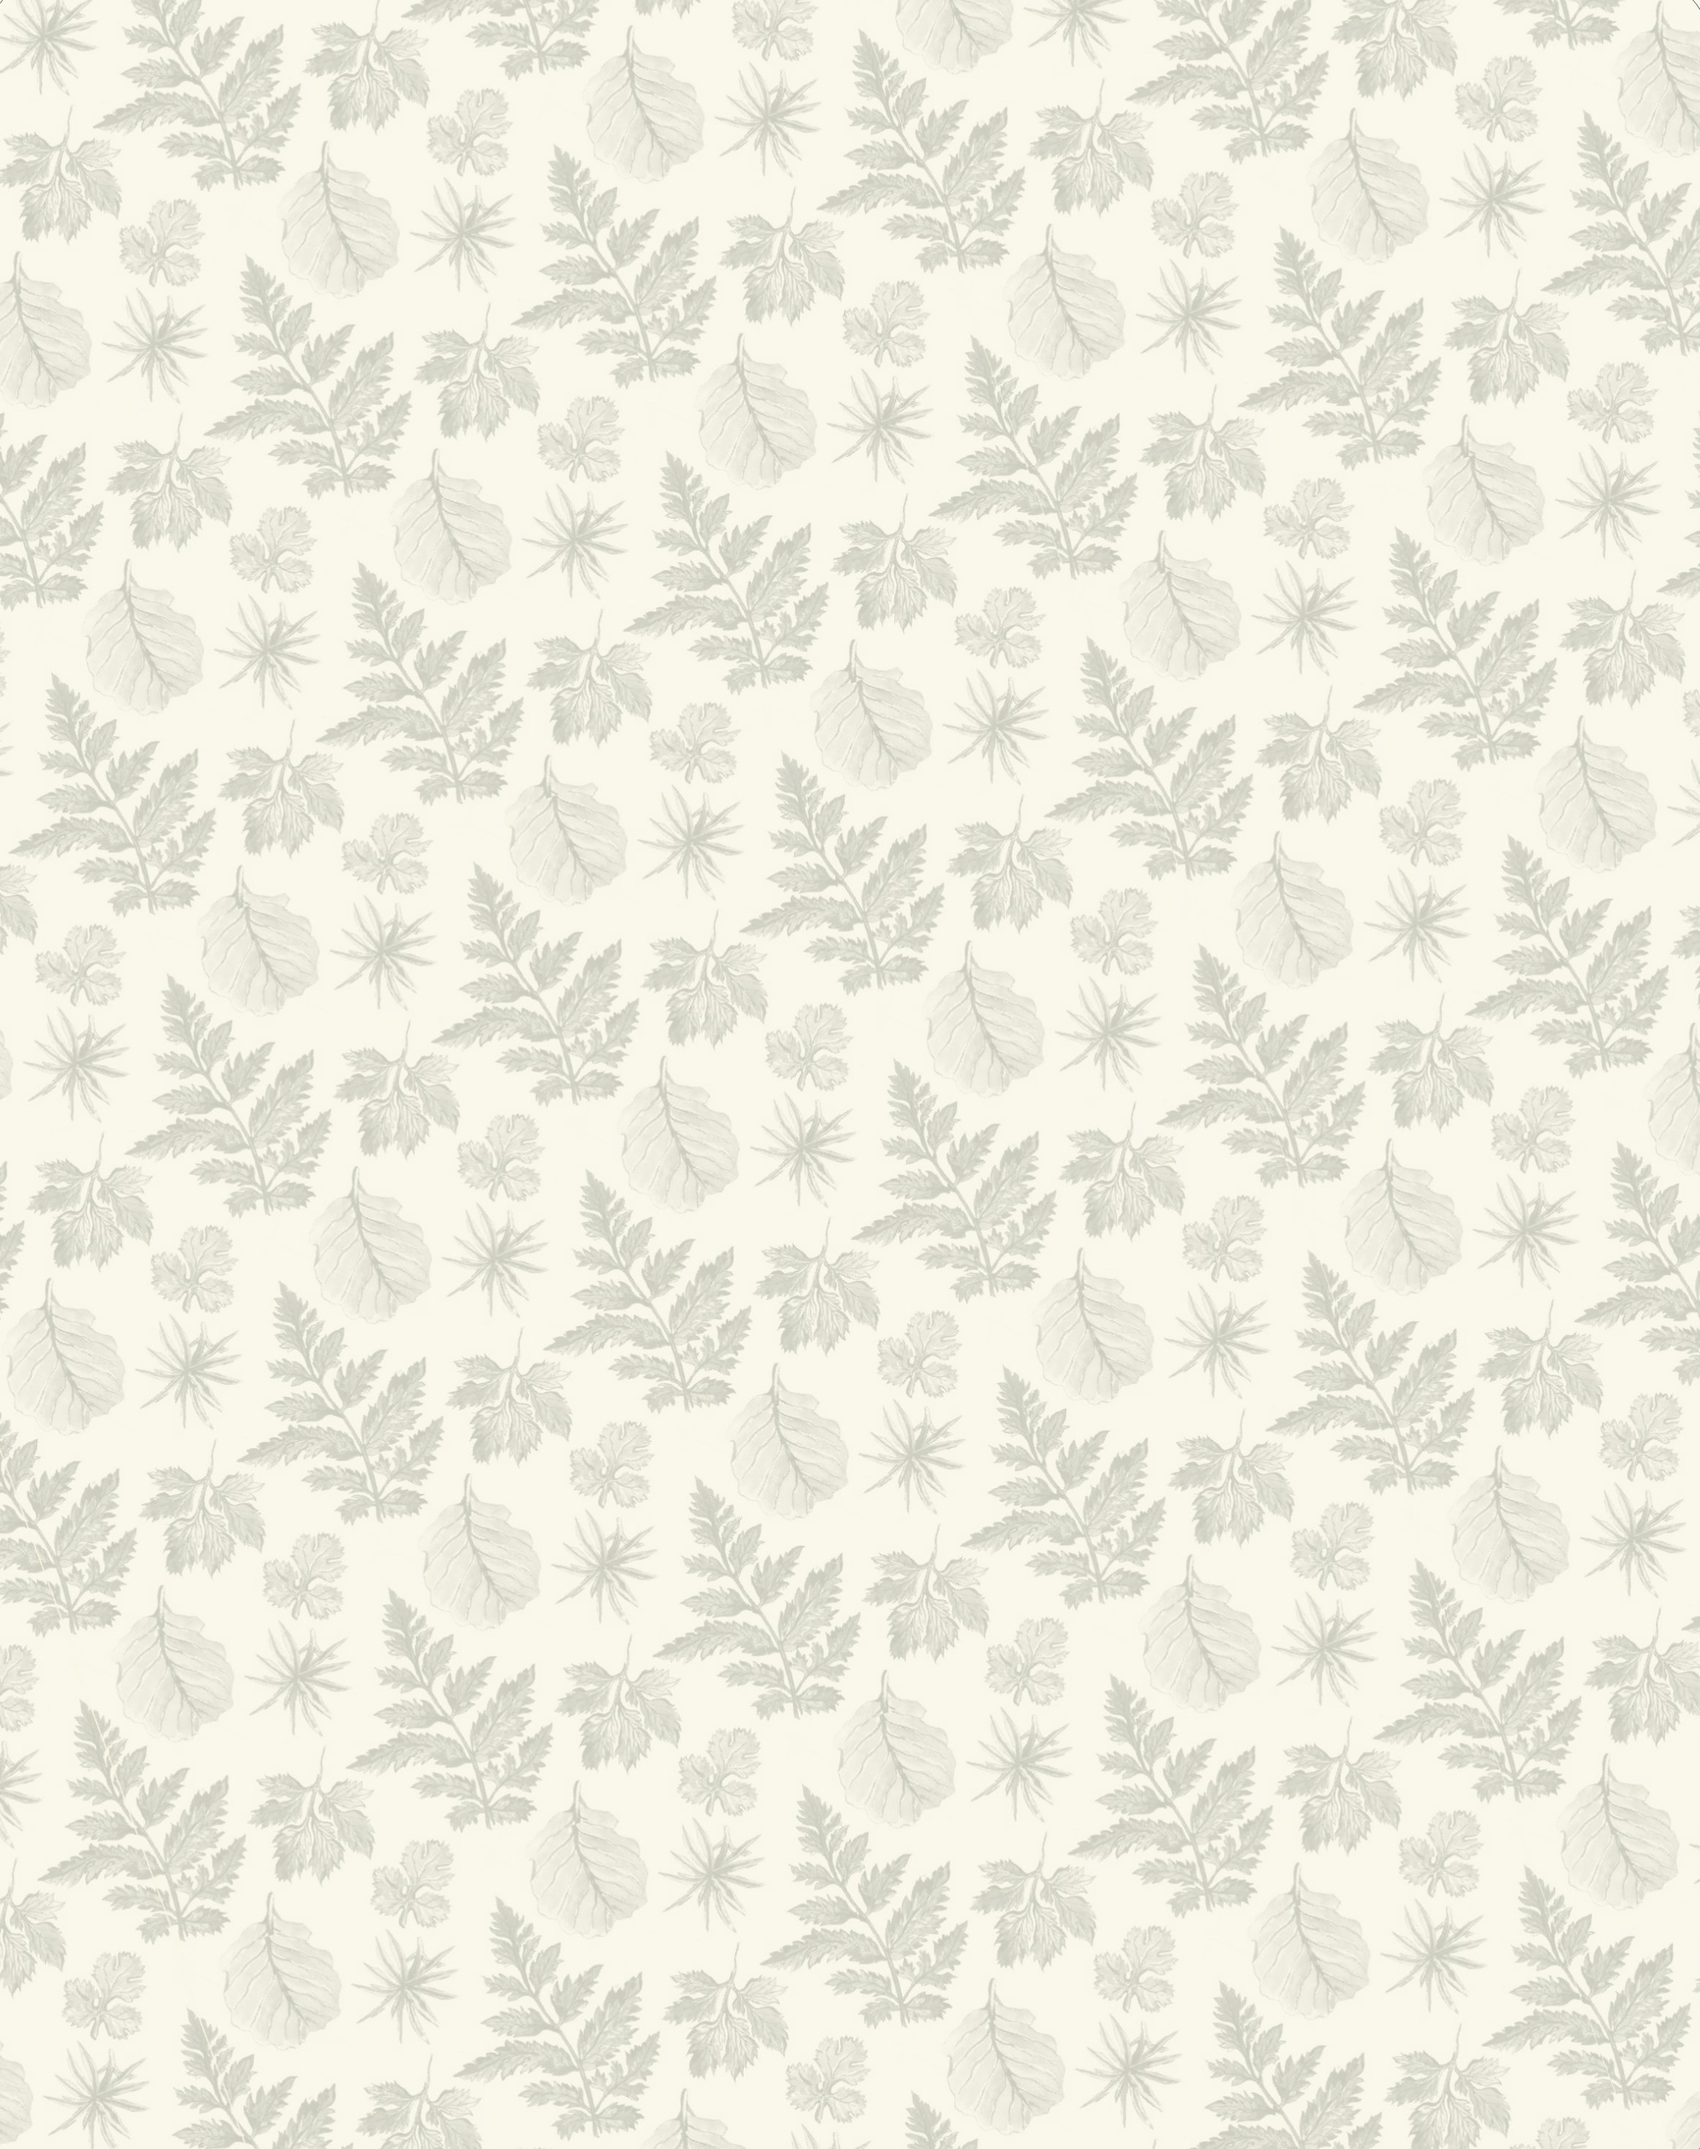
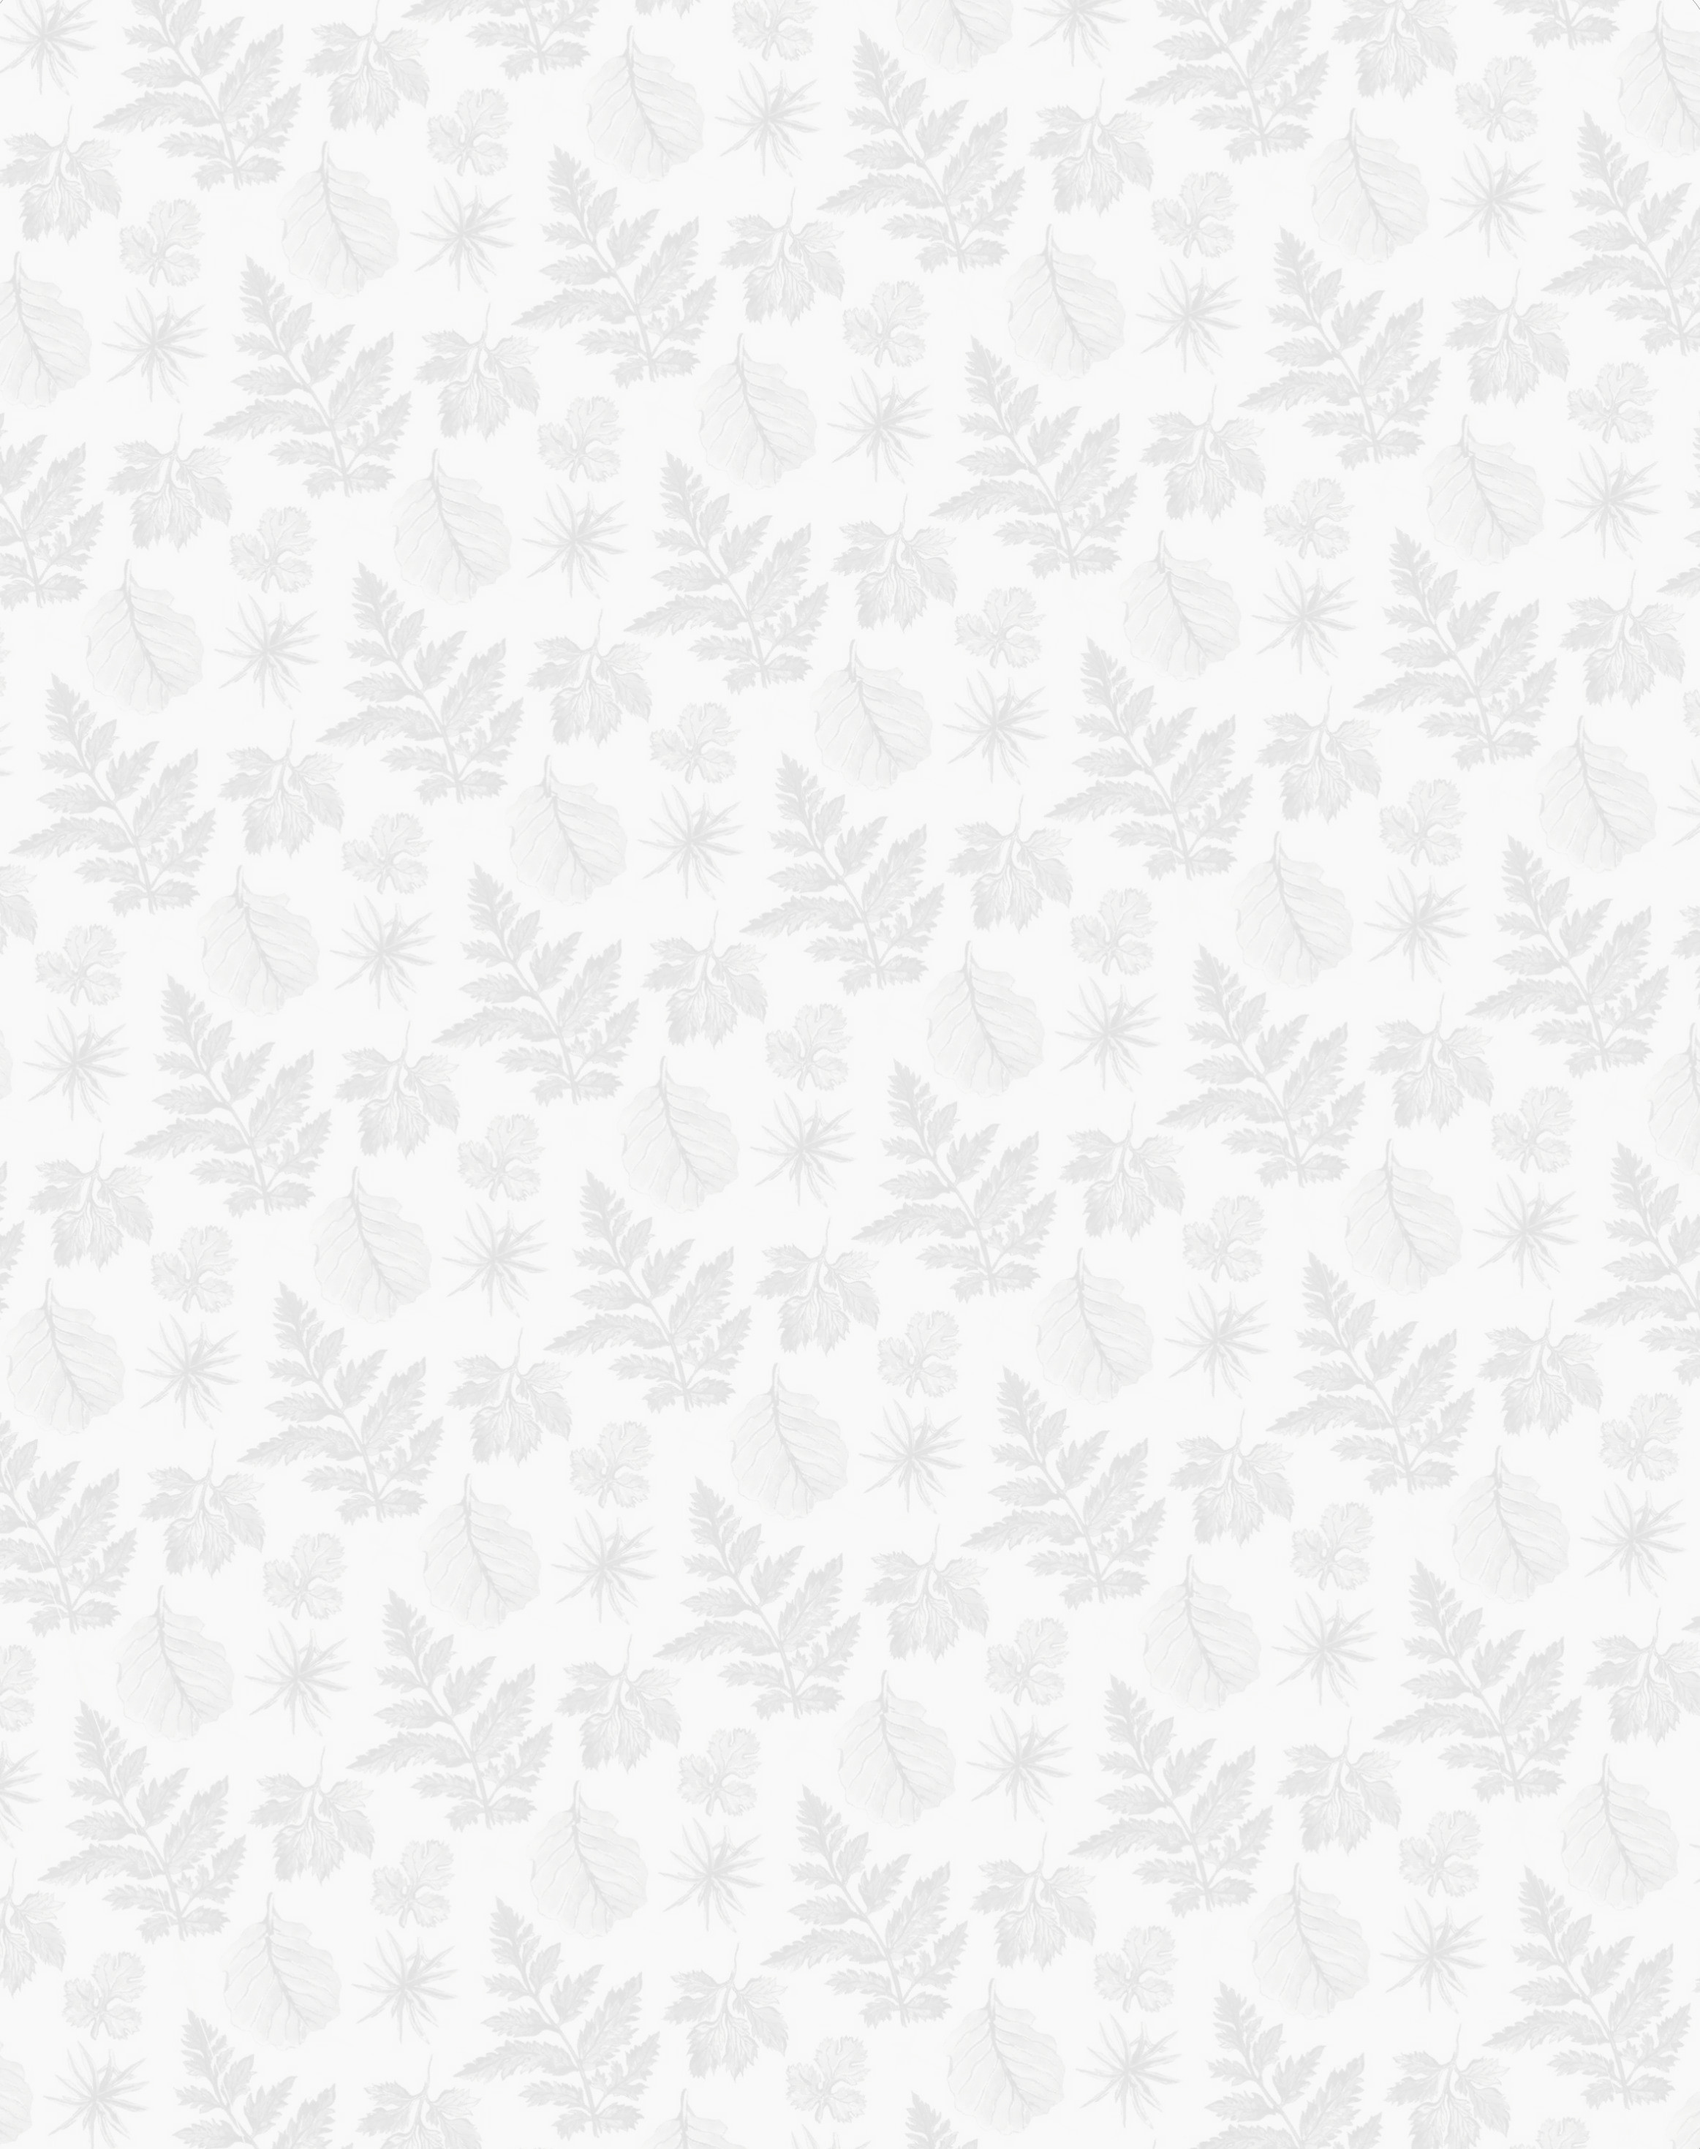
romaskova, dark, margin, button

diff --git a/css/style.css b/css/style.css
@@ -38,7 +38,7 @@ body {
 .odkaz {
   color: var(--odkaz);
   font-weight: 600;
-  font-size: 19px;
+  font-size: 18.5px;
 }
 
 @media screen and (min-width: 850px) {
@@ -55,7 +55,7 @@ body {
     font-size: 26px;
   }
   .card__odkaz {
-    font-size: 20px;
+    font-size: 18px;
   }
 }
 .header__logo {
@@ -143,13 +143,19 @@ body {
   .card__img {
     max-width: 40vw;
     float: right;
-    margin: 70px 20px 20px;
+    margin: 80px 20px 20px;
+  }
+  .card__title {
+    margin-bottom: 40px;
+  }
+  .card__medailonek {
+    margin-top: 60px;
   }
 }
 @media screen and (min-width: 850px) {
   .card__img {
     max-width: 30vw;
-    margin: 70px 40px 40px;
+    margin: 80px 40px 40px;
   }
 }
 .card__odkaz {
@@ -161,10 +167,21 @@ body {
 .card__zpet {
   background-color: var(--pozadi);
   margin-top: 20px;
-  border: 2px solid var(--ramecek);
+  border: 1px solid var(--ramecek);
   border-radius: 30px;
-  padding: 2px 10px;
-  box-shadow: 1px;
+  padding: 5px 10px;
+  box-shadow: 1px 1px 2px rgba(173, 173, 173, 0.5019607843);
+  transition: transform 0.08s;
+}
+
+.card__zpet:hover, .card__zpet:focus {
+  box-shadow: 1.5px 1.5px 3px rgba(173, 173, 173, 0.5019607843);
+  transform: translate(-1px, -1px);
+}
+
+.card__zpet:active {
+  box-shadow: 1px 1px 2px rgba(173, 173, 173, 0.5019607843);
+  transform: translate(0, 0);
 }
 
 .program__grid {
@@ -228,9 +245,16 @@ html {
 }
 
 body {
-  background-image: url(/images/background3.jpg);
+  background-image: url(/images/background.jpg);
   background-size: 100%;
   width: 80vw;
   margin: 0 auto;
   max-width: 1800px;
+}
+
+@media (prefers-color-scheme: dark) {
+  body {
+    background-image: url(/images/background-dark.jpg);
+    color: white;
+  }
 }/*# sourceMappingURL=style.css.map */

diff --git a/index.html b/index.html
@@ -52,7 +52,7 @@
                 <div class="program__grid"><p>9:00 - 10:15</p> <p class="program__radek"><a class="odkaz odkaz__clovek" href="katerina-cerna.html">Kateřina Černá</a>: Bylinky jako součást mého života na Žítkové</p></div>
                 <div class="program__grid"><p>10:45 -12:00</p> <p class="program__radek"><a class="odkaz odkaz__clovek" href="radka-svatosova.html">Radka Svatošová</a>: Znovuzrození ženy - bylinky a recepty pro ženské zdraví a energii</p></div>
                 <div class="program__grid"><p>12:00 - 13:00</p> <p class="program__radek">Obědová pauza</p></div>
-                <div class="program__grid"><p>13:00 - 14:00</p> <p class="program__radek"><a class="odkaz odkaz__clovek" href="bude-upresneno.html">Bude upřesněno</a>: bude upřesněno</p></div>
+                <div class="program__grid"><p>13:00 - 14:00</p> <p class="program__radek"><a class="odkaz odkaz__clovek" href="karolina-romaskova.html">Karolína Romášková</a>: Aby bylinky opravdu pomáhaly - faktory ovlivňující účinnost a bezpečnost léčivých rostlin</p></div>
                 <div class="program__grid"><p>14:30 - 16:00</p> <p class="program__radek"><a class="odkaz odkaz__clovek" href="petr-haba.html">Petr Hába</a> + <a class="odkaz" href="tereza-terra.html">Tereza Terra</a>: I západy slunce mohou být krásné - byliny v péči o bytosti na konci pozemské pouti - přednáška, meditační hudba, aromaterapie</p></div>
             </div>
         </div>

diff --git a/karolina-romaskova.html b/karolina-romaskova.html
@@ -1,0 +1,23 @@
+<!DOCTYPE html>
+<html lang="en">
+<head>
+    <meta charset="UTF-8">
+    <meta http-equiv="X-UA-Compatible" content="IE=edge">
+    <meta name="viewport" content="width=device-width, initial-scale=1.0">
+    <link rel="stylesheet" href="/css/style.css">
+    <link rel="preconnect" href="https://fonts.googleapis.com">
+    <link rel="preconnect" href="https://fonts.gstatic.com" crossorigin>
+    <link href="https://fonts.googleapis.com/css2?family=Anton&family=Cabin:ital,wght@0,400..700;1,400..700&family=Caudex:ital,wght@0,400;0,700;1,400;1,700&family=Corben:wght@400;700&family=Figtree:ital@0;1&family=Laila:wght@300;400;500;600;700&family=Suez+One&display=swap" rel="stylesheet">
+
+    <title>Karolína Romášková</title>
+</head>
+<body>
+    <button class="card__zpet"><a class="card__odkaz" href="index.html#program">← zpět</a></button>
+    <img class="card__img" src="/images/nahradnice.JPG" alt="Karolína Romášková">
+    <div class="card__medailonek">
+        <h1 class="card__title">Karolína Romášková</h1>
+        <p class="card__text">Máme rádi bylinky!</p>
+    </div>
+
+</body>
+</html>

diff --git a/SCSS/_button.scss b/SCSS/_button.scss
@@ -10,10 +10,22 @@
 .card__zpet {
     background-color: var(--pozadi);
     margin-top: 20px;
-    border: 2px solid var(--ramecek);
+    border: 1px solid var(--ramecek);
     border-radius: 30px;
-    padding: 2px 10px;
-    box-shadow: 1px;
+    padding: 5px 10px;
+    box-shadow: 1px 1px 2px #adadad80;
+    transition: transform 0.08s;
+}
+
+
+.card__zpet:hover, .card__zpet:focus  {
+    box-shadow: 1.5px 1.5px 3px #adadad80;
+    transform: translate(-1px, -1px);
+}
+
+.card__zpet:active {
+    box-shadow: 1px 1px 2px #adadad80;
+    transform: translate(0, 0);
 }
 
 

diff --git a/SCSS/style.scss b/SCSS/style.scss
@@ -9,6 +9,7 @@
 @use 'kontakt';
 @use 'margin';
 
+
 html {
     box-sizing: border-box;
 }
@@ -16,14 +17,21 @@ html {
 *, ::before, ::after {
     box-sizing: inherit;
 }
+    
 
 body {
-    background-image: url(/images/background3.jpg);
+    background-image: url(/images/background.jpg);
     
     background-size: 100%;
     width: 80vw;
     margin: 0 auto;
     max-width: 1800px;
-    
+
 }
 
+@media (prefers-color-scheme: dark) {
+    body {
+        background-image: url(/images/background-dark.jpg);
+        color: white;
+    }
+}

diff --git a/SCSS/_card.scss b/SCSS/_card.scss
@@ -13,7 +13,15 @@
     .card__img { 
         max-width: 40vw;
         float: right;
-        margin: 70px 20px 20px;
+        margin: 80px 20px 20px;
+    }
+
+    .card__title {
+        margin-bottom: 40px;
+    }
+
+    .card__medailonek {
+        margin-top: 60px;
     }
 
 }
@@ -21,7 +29,7 @@
 @media screen and (min-width: 850px) {
     .card__img { 
         max-width: 30vw;
-        margin: 70px 40px 40px;
+        margin: 80px 40px 40px;
     }
 
 }

diff --git a/radka-hunjan-koblihova.html b/radka-hunjan-koblihova.html
@@ -16,7 +16,7 @@
         <img class="card__img" src="/images/nahradnice.JPG" alt="Radka_Hunjan_Koblihova">
         <div class="card__medailonek">    
             <h1 class="card__title">Radka Hunjan Koblihová</h1>
-            <p class="card__text">Máme rádi bylinky! Neradi posíláme texty sami o sobě organizátorům!</p>
+            <p class="card__text">Máme rádi bylinky!</p>
         </div>
     </div>
 </body>

diff --git a/sarka-urbanova.html b/sarka-urbanova.html
@@ -17,7 +17,7 @@
         <img class="card__img" src="/images/nahradnice.JPG" alt="Sarka_Urbanova">
         <div class="card__medailonek">  
             <h1 class="card__title">Šárka Urbanová</h1>
-            <p class="card__text">Máme rádi bylinky! Neradi posíláme texty sami o sobě organizátorům!</p>
+            <p class="card__text">Máme rádi bylinky!</p>
         </div>
     </div>
 </body>

diff --git a/tereza-terra.html b/tereza-terra.html
@@ -16,7 +16,7 @@
         <img class="card__img" src="/images/nahradnice.JPG" alt="Tereza_Terra">
         <div class="card__medailonek">  
             <h1 class="card__title">Tereza Terra</h1>
-            <p class="card__text">Máme rádi bylinky! Neradi posíláme texty sami o sobě organizátorům!</p>
+            <p class="card__text">Máme rádi bylinky!</p>
         </div>
     </div>
 </body>

diff --git a/petr-haba.html b/petr-haba.html
@@ -16,7 +16,7 @@
         <img class="card__img" src="/images/nahradnice.JPG" alt="Petr_Haba">
         <div class="card__medailonek">  
             <h1 class="card__title">Petr Hába</h1>
-            <p class="card__text">Máme rádi bylinky! Neradi posíláme texty sami o sobě organizátorům!</p>
+            <p class="card__text">Máme rádi bylinky!</p>
         </div>
     </div>
 </body>

diff --git a/simalenka.html b/simalenka.html
@@ -17,7 +17,7 @@
         <img class="card__img" src="/images/nahradnice.JPG" alt="SiMalenka">
         <div class="card__medailonek">  
             <h1 class="card__title">SiMalenka</h1>
-            <p class="card__text">Máme rádi bylinky! Neradi posíláme texty sami o sobě organizátorům!</p>
+            <p class="card__text">Máme rádi bylinky!</p>
         </div>
     </div>
 </body>

diff --git a/SCSS/_fonts.scss b/SCSS/_fonts.scss
@@ -32,7 +32,7 @@ body {
 .odkaz {
     color: var(--odkaz);
     font-weight: 600;
-    font-size: 19px;
+    font-size: 18.5px;
 }
 
 
@@ -57,7 +57,7 @@ body {
     }
 
     .card__odkaz {
-        font-size: 20px;
+        font-size: 18px;
     }
 
 }
